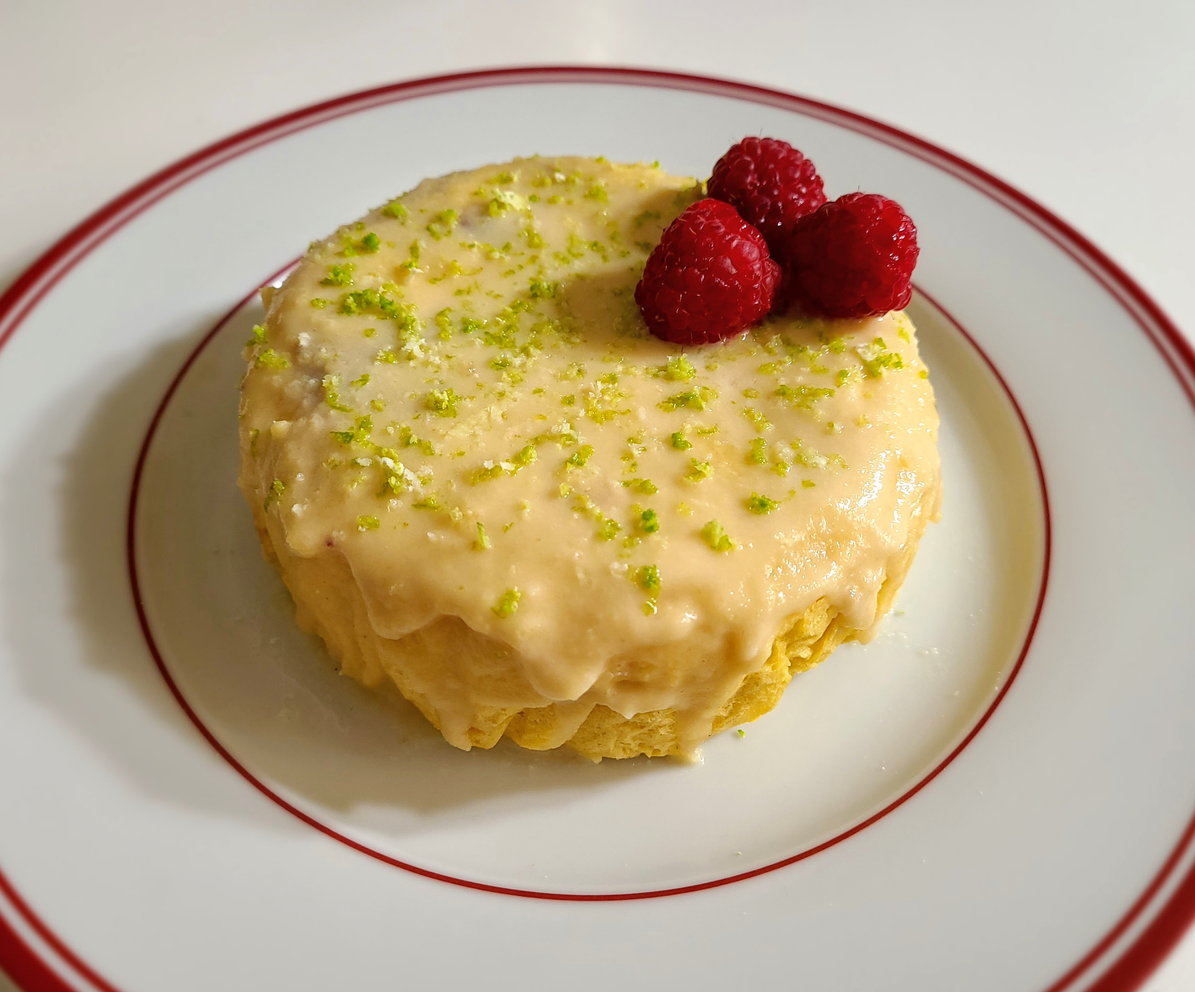
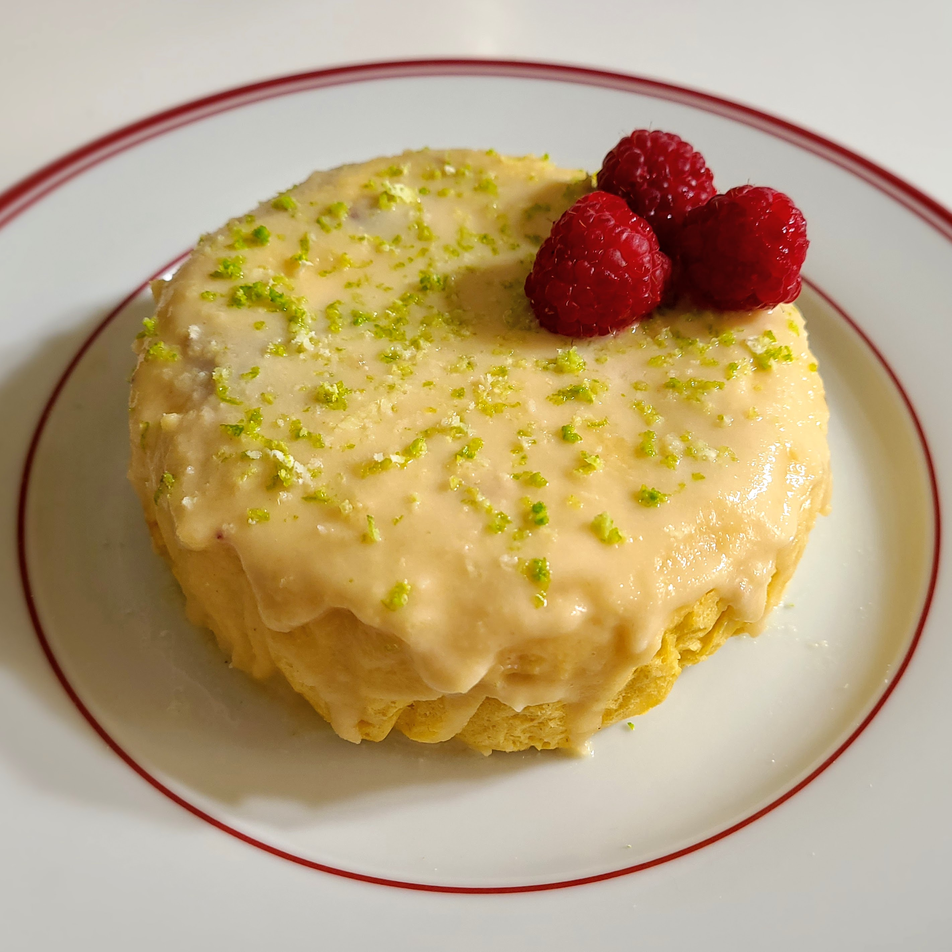
Update from Forestry.io Samadipa Saha created static/uploads/20201107_212313-1.jpg Samadipa Saha updated content/healthy-coconut-lime-cake.md

diff --git a/content/healthy-coconut-lime-cake.md b/content/healthy-coconut-lime-cake.md
@@ -2,7 +2,7 @@
 categories = ["Recipe"]
 date = 2020-11-07T05:00:00Z
 description = "Healthy coconut lime cake "
-image = "uploads/20201107_212313.jpg"
+image = "/uploads/20201107_212313-1.jpg"
 tags = ["lime", "coconut", "cake", "healthy", "dessert", "healthy_dessert", "keto", "low_calorie", "gluten_free", "low_carb"]
 title = "Coconut lime healthy cake "
 type = "post"
